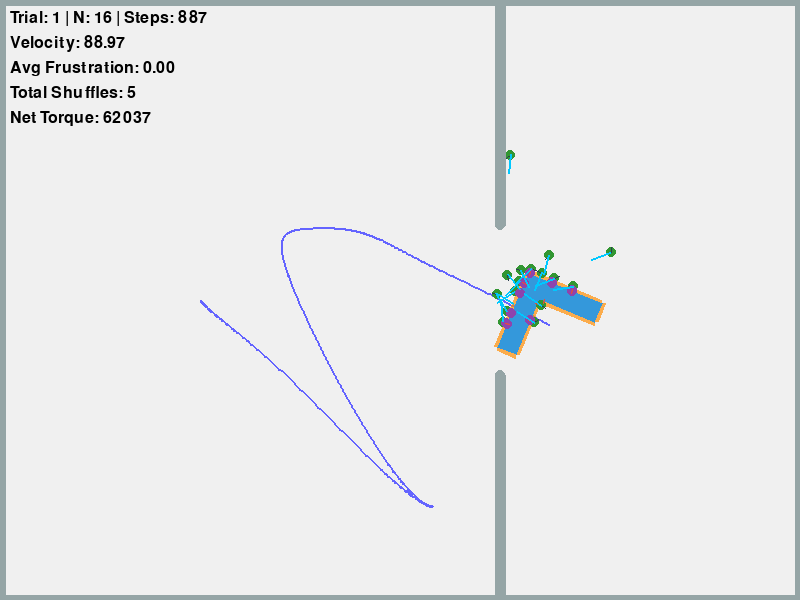
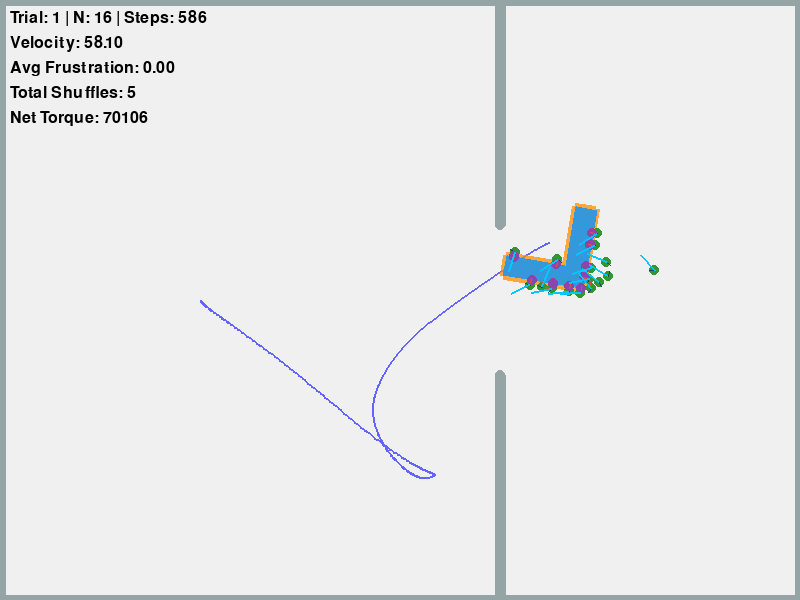
refactor: extract magic numbers into central config.json

diff --git a/main.py b/main.py
@@ -13,11 +13,17 @@ from environment import Environment
 from geometry_utils import create_l_shape_payload, create_square_payload
 from agents import Agent
 from telemetry import TelemetryLogger
+import json
+
+with open("config.json", "r") as f:
+    config = json.load(f)
 
 def do_attach(space, agent, payload_body, contact_point):
     agent.attach(payload_body, contact_point)
 
-def run_trial(trial_id, headless, width, height, num_agents=20, max_steps=15000, shape_type='l_shape'):
+def run_trial(trial_id, headless, width, height, num_agents=20, max_steps=None, shape_type='l_shape'):
+    if max_steps is None: max_steps = config["simulation"]["max_steps"]
+    
     if headless:
         os.environ['SDL_VIDEODRIVER'] = 'dummy'
         
@@ -30,15 +36,21 @@ def run_trial(trial_id, headless, width, height, num_agents=20, max_steps=15000,
     
     env = Environment(width, height)
     
+    spawn_pos = tuple(config["payload"]["spawn_pos"])
+    mass = config["payload"]["mass"]
     if shape_type == 'square':
-        payload_body, payload_shapes = create_square_payload(env.space, (200, 300), mass=20.0)
+        payload_body, payload_shapes = create_square_payload(env.space, spawn_pos, mass=mass)
     else:
-        payload_body, payload_shapes = create_l_shape_payload(env.space, (200, 300), mass=20.0)
+        payload_body, payload_shapes = create_l_shape_payload(env.space, spawn_pos, mass=mass)
     
     agents = []
+    spawn_base_x = config["agents"]["spawn_base_x"]
+    spawn_base_y = config["agents"]["spawn_base_y"]
+    spawn_spacing = config["agents"]["spawn_spacing"]
+    
     for i in range(num_agents):
-        x = 120 + (i % 5) * 20
-        y = 250 + (i // 5) * 20
+        x = spawn_base_x + (i % 5) * spawn_spacing
+        y = spawn_base_y + (i // 5) * spawn_spacing
         agent = Agent(env.space, (x, y))
         agent.target_payload = payload_body
         agents.append(agent)
@@ -52,7 +64,7 @@ def run_trial(trial_id, headless, width, height, num_agents=20, max_steps=15000,
         return True
     env.space.on_collision(1, 2, begin=attach_handler)
     
-    gap_position = (500, 300)
+    gap_position = (config["environment"]["gap_x"], config["environment"]["height"] / 2)
     telemetry = TelemetryLogger()
     
     steps = 0
@@ -77,7 +89,7 @@ def run_trial(trial_id, headless, width, height, num_agents=20, max_steps=15000,
             agent.shape.color = (r, g, 50, 255)
                 
         # Physics step
-        dt = 1.0 / 60.0
+        dt = config["simulation"]["dt"]
         env.step(dt)
         
         # Telemetry
@@ -93,11 +105,13 @@ def run_trial(trial_id, headless, width, height, num_agents=20, max_steps=15000,
         
         # Render
         if not headless:
-            screen.fill((240, 240, 240))
+            bg_color = tuple(config["colors"]["background"])
+            screen.fill(bg_color)
             
             # Trajectory Mapper (Onion Skin effect)
             if len(telemetry.trajectory_history) > 1:
-                pygame.draw.lines(screen, (100, 100, 255), False, telemetry.trajectory_history, 2)
+                traj_color = tuple(config["colors"]["trajectory"])
+                pygame.draw.lines(screen, traj_color, False, telemetry.trajectory_history, 2)
             
             # Calculate total torque
             total_torque = 0.0
@@ -112,23 +126,25 @@ def run_trial(trial_id, headless, width, height, num_agents=20, max_steps=15000,
             torque_ratio = min(1.0, total_torque / 100000.0)
             glow_alpha = int(50 + torque_ratio * 200)
             glow_surface = pygame.Surface((width, height), pygame.SRCALPHA)
+            payload_color = tuple(config["colors"]["payload_outline"])
             for shape in payload_shapes:
                 if isinstance(shape, pymunk.Poly):
                     pts = [payload_body.local_to_world(v) for v in shape.get_vertices()]
                     pts = [(int(p.x), int(p.y)) for p in pts]
                     # Draw a thick outline that glows brightly under high torque
-                    pygame.draw.polygon(glow_surface, (255, 140, 0, glow_alpha), pts, width=8)
+                    pygame.draw.polygon(glow_surface, (*payload_color, glow_alpha), pts, width=8)
             screen.blit(glow_surface, (0, 0))
             
             env.space.debug_draw(draw_options)
             
             # Draw Force Vectors
+            force_color = tuple(config["colors"]["force_vector"])
             for agent in agents:
                 fx, fy = agent.current_force
                 if fx != 0 or fy != 0:
                     start_pos = (int(agent.body.position.x), int(agent.body.position.y))
                     end_pos = (int(start_pos[0] + fx*0.1), int(start_pos[1] + fy*0.1))
-                    pygame.draw.line(screen, (0, 200, 255), start_pos, end_pos, 2)
+                    pygame.draw.line(screen, force_color, start_pos, end_pos, 2)
             
             # HUD
             total_frustration = sum(a.frustration for a in agents)
@@ -140,8 +156,9 @@ def run_trial(trial_id, headless, width, height, num_agents=20, max_steps=15000,
                 f"Total Shuffles: {total_shuffles}",
                 f"Net Torque: {total_torque:.0f}"
             ]
+            hud_color = tuple(config["colors"]["hud_text"])
             for i, txt in enumerate(hud_text):
-                surf = font.render(txt, True, (0, 0, 0))
+                surf = font.render(txt, True, hud_color)
                 screen.blit(surf, (10, 10 + i*25))
             
             pygame.display.flip()
@@ -163,7 +180,8 @@ def main():
     parser.add_argument('--shape', type=str, default='l_shape', choices=['l_shape', 'square'], help='Payload geometry shape')
     args = parser.parse_args()
     
-    width, height = 800, 600
+    width = config["environment"]["width"]
+    height = config["environment"]["height"]
     
     # If HEADLESS env var is set, enforce headless
     headless = args.batch or os.environ.get('HEADLESS') == '1'

diff --git a/agents.py b/agents.py
@@ -1,6 +1,10 @@
 import pymunk
 import math
 import random
+import json
+
+with open("config.json", "r") as f:
+    config = json.load(f)
 
 class AgentState:
     SEARCHING = 1
@@ -8,25 +12,29 @@ class AgentState:
     SHUFFLING = 3
 
 class Agent:
-    def __init__(self, space, position, radius=5, mass=1.0):
+    def __init__(self, space, position, radius=None, mass=None):
         self.space = space
+        
+        radius = radius if radius is not None else config["agents"]["radius"]
+        mass = mass if mass is not None else config["agents"]["mass"]
+        
         self.body = pymunk.Body(mass, pymunk.moment_for_circle(mass, 0, radius))
         self.body.position = position
         
         self.shape = pymunk.Circle(self.body, radius)
         self.shape.friction = 0.5
         self.shape.collision_type = 2  # 2 for Agent
-        self.shape.color = (50, 150, 50, 255) # Green
+        self.shape.color = tuple(config["colors"]["agent_base"])
         
         self.space.add(self.body, self.shape)
         
         self.state = AgentState.SEARCHING
         self.joint = None
         self.target_payload = None
-        self.max_force = 200.0
+        self.max_force = config["agents"]["max_force"]
         
         self.frustration = 0.0
-        self.frustration_limit = 50.0
+        self.frustration_limit = config["agents"]["frustration_limit"]
         self.shuffle_target = None
         self.shuffle_events = 0
         self.current_force = (0.0, 0.0)
@@ -51,10 +59,10 @@ class Agent:
         elif self.state == AgentState.ATTACHED:
             # Check for stall via Frustration Metric (Psi)
             velocity = self.target_payload.velocity.length
-            stall_threshold = 10.0
+            stall_threshold = config["agents"]["stall_threshold"]
             
             if velocity < stall_threshold:
-                self.frustration += 3.0
+                self.frustration += config["agents"]["frustration_gain"]
             else:
                 self.frustration = max(0.0, self.frustration - 2.0)
                 

diff --git a/environment.py b/environment.py
@@ -3,11 +3,15 @@ Environment Module
 Sets up the Pymunk physics space and the static boundaries (walls and gap).
 """
 import pymunk
+import json
+
+with open("config.json", "r") as f:
+    config = json.load(f)
 
 class Environment:
-    def __init__(self, width=800, height=600):
-        self.width = width
-        self.height = height
+    def __init__(self, width=None, height=None):
+        self.width = width if width is not None else config["environment"]["width"]
+        self.height = height if height is not None else config["environment"]["height"]
         
         # Initialize Pymunk space
         self.space = pymunk.Space()
@@ -31,9 +35,10 @@ class Environment:
             [(0, self.height), (0, 0)]
         ]
         
-        # Gap wall located at x = 500
-        gap_x = 500
-        gap_width = 150
+        # Gap wall
+        gap_x = config["environment"].get("gap_x", 500)
+        gap_width = config["environment"]["gap_size"]
+        wall_radius = config["environment"].get("wall_thickness", 5.0)
         gap_y_top = (self.height / 2) - (gap_width / 2)
         gap_y_bottom = (self.height / 2) + (gap_width / 2)
         
@@ -43,7 +48,7 @@ class Environment:
         ])
         
         for p1, p2 in boundaries:
-            shape = pymunk.Segment(static_body, p1, p2, radius=5.0)
+            shape = pymunk.Segment(static_body, p1, p2, radius=wall_radius)
             shape.elasticity = 0.3
             shape.friction = 0.8
             self.space.add(shape)